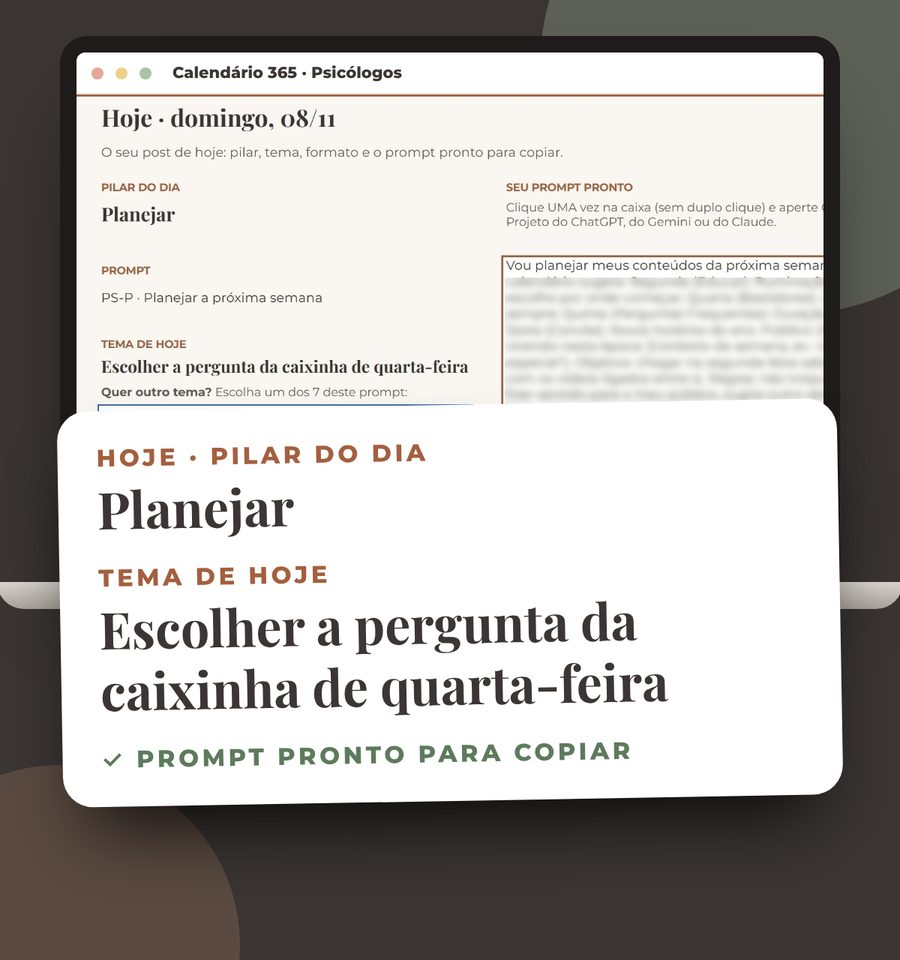
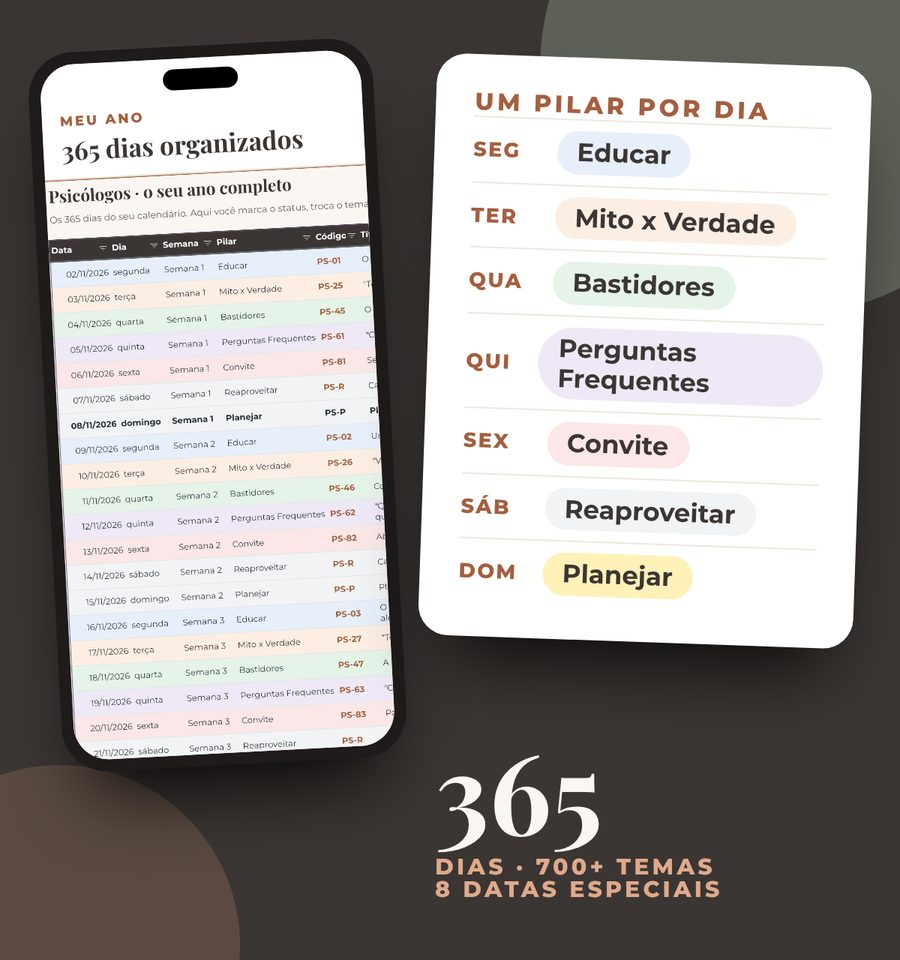
Item Calendário: foco no ano organizado e nos pilares da semana, sem repetir a aba Hoje
Claude-Session: https://claude.ai/code/session_019gApqEvePQwvVzz1sAvbWL

diff --git a/index.html b/index.html
@@ -1483,7 +1483,7 @@ html,body{overflow-x:clip}
     <h2 class="h2">O que você vai encontrar no kit</h2>
     <p class="lead">Tudo abre direto nos apps gratuitos do Google e em PDF, sem instalar nada. O ideal é usar no computador, e você também consulta pelo celular.</p>
     <div class="itens">
-      <article class="it"><div class="it-img"><picture><source media="(max-width:820px)" srcset="img/item-calendario-m.jpg" width="900" height="960"><img src="img/item-calendario.jpg" alt="Calendário 365 automático" loading="lazy" width="1440" height="900"></picture></div><div class="it-txt"><span class="it-tag">Calendário</span><h3>Calendário 365 automático</h3><p>Você coloca a data de início e ele organiza o seu ano. Todo dia, a aba Hoje mostra o pilar, o tema e o prompt pronto para copiar. Mais de 700 temas e 8 datas especiais.</p></div></article>
+      <article class="it"><div class="it-img"><picture><source media="(max-width:820px)" srcset="img/item-calendario-m.jpg" width="900" height="960"><img src="img/item-calendario.jpg" alt="Calendário 365 automático" loading="lazy" width="1440" height="900"></picture></div><div class="it-txt"><span class="it-tag">Calendário</span><h3>Calendário 365 automático</h3><p>Você coloca a data de início e ele organiza o seu ano inteiro: um pilar para cada dia da semana, mais de 700 temas e 8 datas especiais. Todo dia, a aba Hoje entrega o post do dia.</p></div></article>
       <article class="it"><div class="it-img"><picture><source media="(max-width:820px)" srcset="img/item-prompts-m.jpg" width="900" height="960"><img src="img/item-prompts.jpg" alt="Banco de 102 prompts para psicologia" loading="lazy" width="1440" height="900"></picture></div><div class="it-txt"><span class="it-tag">Prompts</span><h3>Banco de 102 prompts para psicologia</h3><p>Um pilar para cada dia da semana, de Educar a Convite, com 7 temas em cada prompt. Feitos considerando as orientações do CFP.</p></div></article>
       <article class="it"><div class="it-img"><picture><source media="(max-width:820px)" srcset="img/item-ficha-m.jpg" width="900" height="960"><img src="img/item-ficha.jpg" alt="Ficha do Negócio + Prompt de Contexto" loading="lazy" width="1440" height="900"></picture></div><div class="it-txt"><span class="it-tag">Ficha</span><h3>Ficha do Negócio + Prompt de Contexto</h3><p>17 perguntas curtas, respondidas uma vez só. A sua IA passa a escrever com a sua abordagem, o seu público e o seu tom. Com guia para ChatGPT, Gemini e Claude.</p></div></article>
       <article class="it it-op"><div class="it-img"><picture><source media="(max-width:820px)" srcset="img/item-pack-m.jpg" width="900" height="960"><img src="img/item-pack.jpg" alt="Pack 20 Modelos Canva" loading="lazy" width="1440" height="900"></picture></div><div class="it-txt"><span class="it-tag">Opcional · R$ 27</span><h3>Pack 20 Modelos Canva</h3><p>20 modelos de vídeo com texto centralizado: troque o texto e baixe em MP4. Funciona com o Canva gratuito. Você adiciona no pagamento, se quiser.</p></div></article>
